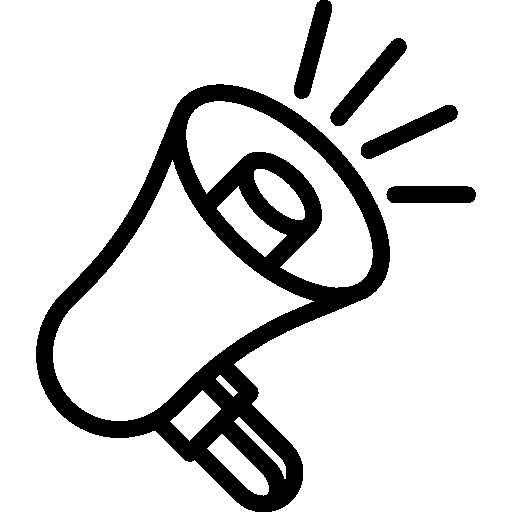
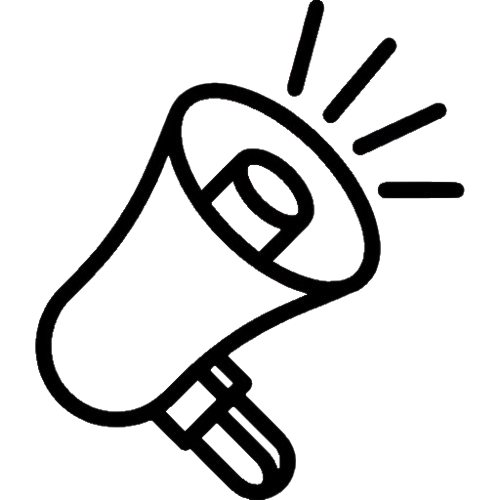
fix navbar tengah

diff --git a/resources/css/quick-menu.css b/resources/css/quick-menu.css
@@ -35,9 +35,11 @@
     color: #3d2b56;
 }
 
-.quick-menu__icon svg {
-    width: 100%;
-    height: 100%;
+.quick-menu__icon svg, 
+.quick-menu__icon img {
+    width: 64px;
+    height: 64px;
+    object-fit: contain;
 }
 
 .quick-menu__label {

diff --git a/resources/views/partials/quick-menu.blade.php b/resources/views/partials/quick-menu.blade.php
@@ -2,13 +2,23 @@
     <a href="{{ route('berita.agenda') }}" class="quick-menu__item">
         <span class="quick-menu__icon">
             <svg viewBox="0 0 24 24" fill="none" xmlns="http://www.w3.org/2000/svg">
-                <path d="M3 11v3a1 1 0 001 1h2l4 4V6L6 10H4a1 1 0 00-1 1z" stroke="currentColor" stroke-width="1.6" stroke-linejoin="round"/>
-                <path d="M15 8a4 4 0 010 8M18 5a8 8 0 010 14" stroke="currentColor" stroke-width="1.6" stroke-linecap="round"/>
+                <path d="M5 11V14C5 14.6 5.4 15 6 15H8L12 19V6L8 10H6C5.4 10 5 10.4 5 11Z"
+                    stroke="currentColor"
+                    stroke-width="1.6"
+                    stroke-linejoin="round"/>
+                <path d="M15 9C16.5 10 16.5 14 15 15"
+                    stroke="currentColor"
+                    stroke-width="1.6"
+                    stroke-linecap="round"/>
+                <path d="M18 7C20.5 9 20.5 15 18 17"
+                    stroke="currentColor"
+                    stroke-width="1.6"
+                    stroke-linecap="round"/>
             </svg>
         </span>
         <span class="quick-menu__label">PENGUMUMAN</span>
     </a>
-
+    
     <a href="{{ route('kontak') }}" class="quick-menu__item">
         <span class="quick-menu__icon">
             <svg viewBox="0 0 24 24" fill="none" xmlns="http://www.w3.org/2000/svg">
@@ -21,11 +31,17 @@
         <span class="quick-menu__label">ASPIRASI WARGA</span>
     </a>
 
-        <a href="{{ route('galeri') }}" class="quick-menu__item">
+    <a href="{{ route('galeri') }}" class="quick-menu__item">
         <span class="quick-menu__icon">
             <svg viewBox="0 0 24 24" fill="none" xmlns="http://www.w3.org/2000/svg">
-                <path d="M4 9h16l-1.5 10.5a1.5 1.5 0 01-1.5 1.3H7a1.5 1.5 0 01-1.5-1.3L4 9z" stroke="currentColor" stroke-width="1.6" stroke-linejoin="round"/>
-                <path d="M9 9V7a3 3 0 016 0v2" stroke="currentColor" stroke-width="1.6"/>
+                <rect x="3" y="4" width="18" height="16" rx="2"
+                    stroke="currentColor" stroke-width="1.6"/>
+                <circle cx="17" cy="8" r="1.8"
+                    stroke="currentColor" stroke-width="1.6"/>
+                <path d="M5 16L10 11L14 15L17 12L21 16"
+                    stroke="currentColor" stroke-width="1.6"
+                    stroke-linecap="round"
+                    stroke-linejoin="round"/>
             </svg>
         </span>
         <span class="quick-menu__label">GALERI</span>
@@ -45,7 +61,40 @@
     <a href="{{ route('profil.potensi') }}" class="quick-menu__item">
         <span class="quick-menu__icon">
             <svg viewBox="0 0 24 24" fill="none" xmlns="http://www.w3.org/2000/svg">
-                <path d="M21 3L3 10.5l7 2.5M21 3l-7.5 18-3.5-8M21 3L10 13.5" stroke="currentColor" stroke-width="1.6" stroke-linecap="round" stroke-linejoin="round"/>
+                <!-- Titik awal -->
+                <path d="M6.5 18.5C8 16.6 8.8 15.3 8.8 14
+                        C8.8 12.5 7.6 11.3 6.1 11.3
+                        C4.6 11.3 3.4 12.5 3.4 14
+                        C3.4 15.3 4.2 16.6 6.5 18.5Z"
+                    stroke="currentColor"
+                    stroke-width="1.6"
+                    stroke-linejoin="round"/>
+
+                <circle cx="6.1" cy="14" r="0.8"
+                    stroke="currentColor"
+                    stroke-width="1.4"/>
+
+                <!-- Titik tujuan -->
+                <path d="M17.5 10.5C19 8.6 19.8 7.3 19.8 6
+                        C19.8 4.5 18.6 3.3 17.1 3.3
+                        C15.6 3.3 14.4 4.5 14.4 6
+                        C14.4 7.3 15.2 8.6 17.5 10.5Z"
+                    stroke="currentColor"
+                    stroke-width="1.6"
+                    stroke-linejoin="round"/>
+
+                <circle cx="17.1" cy="6" r="0.8"
+                    stroke="currentColor"
+                    stroke-width="1.4"/>
+
+                <!-- Jalur -->
+                <path d="M8 15
+                        C10 15.5 10.5 18 13 18
+                        C15.5 18 15.8 12.5 17 10"
+                    stroke="currentColor"
+                    stroke-width="1.6"
+                    stroke-linecap="round"
+                    stroke-dasharray="2.2 2.2"/>
             </svg>
         </span>
         <span class="quick-menu__label">WISATA</span>
@@ -54,12 +103,42 @@
     <a href="{{ route('kontak') }}" class="quick-menu__item">
         <span class="quick-menu__icon">
             <svg viewBox="0 0 24 24" fill="none" xmlns="http://www.w3.org/2000/svg">
-                <path d="M4 4l2.5 1.2c.5.2.8.7.9 1.2l1.9 9.4c.2 1 1 1.7 2 1.7h7.4c1 0 1.8-.7 2-1.6l1.3-6a1 1 0 00-1-1.2H7" stroke="currentColor" stroke-width="1.6" stroke-linecap="round" stroke-linejoin="round"/>
-                <circle cx="10" cy="21" r="1.4" stroke="currentColor" stroke-width="1.4"/>
-                <circle cx="18" cy="21" r="1.4" stroke="currentColor" stroke-width="1.4"/>
+                <!-- Gagang telepon -->
+                <path d="M8.5 5.5
+                        C7.8 4.8 6.8 4.8 6.1 5.5
+                        L5.2 6.4
+                        C4.6 7 4.5 8 4.9 8.8
+                        C6.5 12.6 9.4 15.5 13.2 17.1
+                        C14 17.5 15 17.4 15.6 16.8
+                        L16.5 15.9
+                        C17.2 15.2 17.2 14.2 16.5 13.5
+                        L14.9 11.9
+                        C14.4 11.4 13.7 11.3 13.1 11.6
+                        L12.1 12.1
+                        C10.6 11.3 9.5 10.2 8.7 8.7
+                        L9.2 7.7
+                        C9.5 7.1 9.4 6.4 8.9 5.9
+                        Z"
+                    stroke="currentColor"
+                    stroke-width="1.6"
+                    stroke-linejoin="round"/>
+
+                <!-- Gelombang -->
+                <path d="M16.5 7.5
+                        C17.5 8 18.2 8.8 18.5 10"
+                    stroke="currentColor"
+                    stroke-width="1.6"
+                    stroke-linecap="round"/>
+
+                <path d="M18 5
+                        C19.7 5.8 21 7.3 21.5 9.3"
+                    stroke="currentColor"
+                    stroke-width="1.6"
+                    stroke-linecap="round"/>
             </svg>
         </span>
         <span class="quick-menu__label">HALLO DESA</span>
     </a>
+
    
 </section>